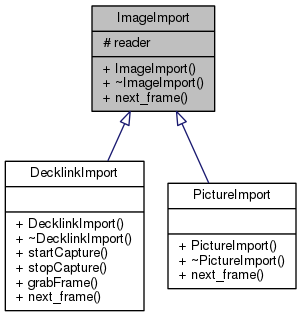
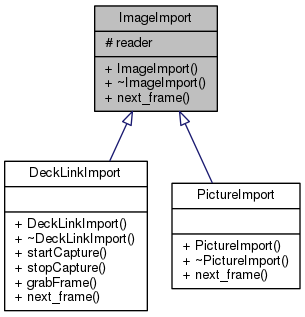
Automated Documentation Generation

diff --git a/html/classDeckLinkImport.html b/html/classDeckLinkImport.html
@@ -4,7 +4,7 @@
 <meta http-equiv="Content-Type" content="text/xhtml;charset=UTF-8"/>
 <meta http-equiv="X-UA-Compatible" content="IE=9"/>
 <meta name="generator" content="Doxygen 1.8.6"/>
-<title>UWARG Computer Vision: DecklinkImport Class Reference</title>
+<title>UWARG Computer Vision: DeckLinkImport Class Reference</title>
 <link href="tabs.css" rel="stylesheet" type="text/css"/>
 <script type="text/javascript" src="jquery.js"></script>
 <script type="text/javascript" src="dynsections.js"></script>
@@ -83,43 +83,43 @@ var searchBox = new SearchBox("searchBox", "search",false,'Search');
 <div class="header">
   <div class="summary">
 <a href="#pub-methods">Public Member Functions</a> &#124;
-<a href="classDecklinkImport-members.html">List of all members</a>  </div>
+<a href="classDeckLinkImport-members.html">List of all members</a>  </div>
   <div class="headertitle">
-<div class="title">DecklinkImport Class Reference</div>  </div>
+<div class="title">DeckLinkImport Class Reference</div>  </div>
 </div><!--header-->
 <div class="contents">
 
-<p>Module for extracting frames from Decklink Video cards.  
- <a href="classDecklinkImport.html#details">More...</a></p>
+<p>Module for extracting frames from DeckLink Video cards.  
+ <a href="classDeckLinkImport.html#details">More...</a></p>
 
 <p><code>#include &lt;<a class="el" href="decklink__import_8h_source.html">decklink_import.h</a>&gt;</code></p>
 <div class="dynheader">
-Inheritance diagram for DecklinkImport:</div>
+Inheritance diagram for DeckLinkImport:</div>
 <div class="dyncontent">
-<div class="center"><img src="classDecklinkImport__inherit__graph.png" border="0" usemap="#DecklinkImport_inherit__map" alt="Inheritance graph"/></div>
-<map name="DecklinkImport_inherit__map" id="DecklinkImport_inherit__map">
-<area shape="rect" id="node2" href="classImageImport.html" title="Abstract class for importing frames and corresponding metadata. " alt="" coords="13,5,136,112"/></map>
+<div class="center"><img src="classDeckLinkImport__inherit__graph.png" border="0" usemap="#DeckLinkImport_inherit__map" alt="Inheritance graph"/></div>
+<map name="DeckLinkImport_inherit__map" id="DeckLinkImport_inherit__map">
+<area shape="rect" id="node2" href="classImageImport.html" title="Abstract class for importing frames and corresponding metadata. " alt="" coords="15,5,137,112"/></map>
 </div>
 <div class="dynheader">
-Collaboration diagram for DecklinkImport:</div>
+Collaboration diagram for DeckLinkImport:</div>
 <div class="dyncontent">
-<div class="center"><img src="classDecklinkImport__coll__graph.png" border="0" usemap="#DecklinkImport_coll__map" alt="Collaboration graph"/></div>
-<map name="DecklinkImport_coll__map" id="DecklinkImport_coll__map">
-<area shape="rect" id="node2" href="classImageImport.html" title="Abstract class for importing frames and corresponding metadata. " alt="" coords="13,221,136,328"/><area shape="rect" id="node3" href="classMetadataInput.html" title="A class for reading telemetry logs and searching for log entries. " alt="" coords="8,6,141,157"/></map>
+<div class="center"><img src="classDeckLinkImport__coll__graph.png" border="0" usemap="#DeckLinkImport_coll__map" alt="Collaboration graph"/></div>
+<map name="DeckLinkImport_coll__map" id="DeckLinkImport_coll__map">
+<area shape="rect" id="node2" href="classImageImport.html" title="Abstract class for importing frames and corresponding metadata. " alt="" coords="15,221,137,328"/><area shape="rect" id="node3" href="classMetadataInput.html" title="A class for reading telemetry logs and searching for log entries. " alt="" coords="9,6,143,157"/></map>
 </div>
 <table class="memberdecls">
 <tr class="heading"><td colspan="2"><h2 class="groupheader"><a name="pub-methods"></a>
 Public Member Functions</h2></td></tr>
-<tr class="memitem:a134278805fce27f766a216ee1caa043d"><td class="memItemLeft" align="right" valign="top">&#160;</td><td class="memItemRight" valign="bottom"><a class="el" href="classDecklinkImport.html#a134278805fce27f766a216ee1caa043d">DecklinkImport</a> (<a class="el" href="classMetadataInput.html">MetadataInput</a> *reader)</td></tr>
-<tr class="separator:a134278805fce27f766a216ee1caa043d"><td class="memSeparator" colspan="2">&#160;</td></tr>
-<tr class="memitem:a9434cbdcb0a0842224ca3cf262756a0e"><td class="memItemLeft" align="right" valign="top">int&#160;</td><td class="memItemRight" valign="bottom"><a class="el" href="classDecklinkImport.html#a9434cbdcb0a0842224ca3cf262756a0e">startCapture</a> ()</td></tr>
-<tr class="separator:a9434cbdcb0a0842224ca3cf262756a0e"><td class="memSeparator" colspan="2">&#160;</td></tr>
-<tr class="memitem:ac3f2de7645984b2328b896555f67fd39"><td class="memItemLeft" align="right" valign="top">int&#160;</td><td class="memItemRight" valign="bottom"><a class="el" href="classDecklinkImport.html#ac3f2de7645984b2328b896555f67fd39">stopCapture</a> ()</td></tr>
-<tr class="separator:ac3f2de7645984b2328b896555f67fd39"><td class="memSeparator" colspan="2">&#160;</td></tr>
-<tr class="memitem:af075ece2124aa9a099f2c5e0ff59b9f2"><td class="memItemLeft" align="right" valign="top">int&#160;</td><td class="memItemRight" valign="bottom"><a class="el" href="classDecklinkImport.html#af075ece2124aa9a099f2c5e0ff59b9f2">grabFrame</a> (cv::Mat *frame)</td></tr>
-<tr class="separator:af075ece2124aa9a099f2c5e0ff59b9f2"><td class="memSeparator" colspan="2">&#160;</td></tr>
-<tr class="memitem:a59935a2b04f7a428404d152405f91081"><td class="memItemLeft" align="right" valign="top">virtual <a class="el" href="classFrame.html">Frame</a> *&#160;</td><td class="memItemRight" valign="bottom"><a class="el" href="classDecklinkImport.html#a59935a2b04f7a428404d152405f91081">next_frame</a> ()</td></tr>
-<tr class="separator:a59935a2b04f7a428404d152405f91081"><td class="memSeparator" colspan="2">&#160;</td></tr>
+<tr class="memitem:ad74e4214f559a5cebf29719aa89e43a2"><td class="memItemLeft" align="right" valign="top">&#160;</td><td class="memItemRight" valign="bottom"><a class="el" href="classDeckLinkImport.html#ad74e4214f559a5cebf29719aa89e43a2">DeckLinkImport</a> (<a class="el" href="classMetadataInput.html">MetadataInput</a> *reader)</td></tr>
+<tr class="separator:ad74e4214f559a5cebf29719aa89e43a2"><td class="memSeparator" colspan="2">&#160;</td></tr>
+<tr class="memitem:ae524c90d6c9ad90fe03c0b28b3eff763"><td class="memItemLeft" align="right" valign="top">int&#160;</td><td class="memItemRight" valign="bottom"><a class="el" href="classDeckLinkImport.html#ae524c90d6c9ad90fe03c0b28b3eff763">startCapture</a> ()</td></tr>
+<tr class="separator:ae524c90d6c9ad90fe03c0b28b3eff763"><td class="memSeparator" colspan="2">&#160;</td></tr>
+<tr class="memitem:a8f10f559e8d247b2893eedd2ff20e3de"><td class="memItemLeft" align="right" valign="top">int&#160;</td><td class="memItemRight" valign="bottom"><a class="el" href="classDeckLinkImport.html#a8f10f559e8d247b2893eedd2ff20e3de">stopCapture</a> ()</td></tr>
+<tr class="separator:a8f10f559e8d247b2893eedd2ff20e3de"><td class="memSeparator" colspan="2">&#160;</td></tr>
+<tr class="memitem:a9bf0aced6fb2d7570ed19bbeed90732d"><td class="memItemLeft" align="right" valign="top">int&#160;</td><td class="memItemRight" valign="bottom"><a class="el" href="classDeckLinkImport.html#a9bf0aced6fb2d7570ed19bbeed90732d">grabFrame</a> (cv::Mat *frame)</td></tr>
+<tr class="separator:a9bf0aced6fb2d7570ed19bbeed90732d"><td class="memSeparator" colspan="2">&#160;</td></tr>
+<tr class="memitem:a614aaa363af837d46346236497c3f324"><td class="memItemLeft" align="right" valign="top">virtual <a class="el" href="classFrame.html">Frame</a> *&#160;</td><td class="memItemRight" valign="bottom"><a class="el" href="classDeckLinkImport.html#a614aaa363af837d46346236497c3f324">next_frame</a> ()</td></tr>
+<tr class="separator:a614aaa363af837d46346236497c3f324"><td class="memSeparator" colspan="2">&#160;</td></tr>
 <tr class="inherit_header pub_methods_classImageImport"><td colspan="2" onclick="javascript:toggleInherit('pub_methods_classImageImport')"><img src="closed.png" alt="-"/>&#160;Public Member Functions inherited from <a class="el" href="classImageImport.html">ImageImport</a></td></tr>
 <tr class="memitem:abf8a3d93464a5451cfe63dfac871c7f5 inherit pub_methods_classImageImport"><td class="memItemLeft" align="right" valign="top">&#160;</td><td class="memItemRight" valign="bottom"><a class="el" href="classImageImport.html#abf8a3d93464a5451cfe63dfac871c7f5">ImageImport</a> (<a class="el" href="classMetadataInput.html">MetadataInput</a> *reader)</td></tr>
 <tr class="memdesc:abf8a3d93464a5451cfe63dfac871c7f5 inherit pub_methods_classImageImport"><td class="mdescLeft">&#160;</td><td class="mdescRight"><ul>
@@ -136,18 +136,18 @@ Additional Inherited Members</h2></td></tr>
 <tr class="separator:a86f5c4d28a8ea126e066542c3d723d11 inherit pro_attribs_classImageImport"><td class="memSeparator" colspan="2">&#160;</td></tr>
 </table>
 <a name="details" id="details"></a><h2 class="groupheader">Detailed Description</h2>
-<div class="textblock"><p>Module for extracting frames from Decklink Video cards. </p>
+<div class="textblock"><p>Module for extracting frames from DeckLink Video cards. </p>
 <p>Reads Video frames and processes them into a OpenCV friendly format. The results are later used in the <a class="el" href="classImageImport.html" title="Abstract class for importing frames and corresponding metadata. ">ImageImport</a> class.</p>
 <h1><a class="anchor" id="Notes"></a>
 Notes</h1>
 <p>This should provide nothing more or less than the ability to control video devices, including but not limited by input source selection, initialization, format settings, and frame grab selection. </p>
 </div><h2 class="groupheader">Constructor &amp; Destructor Documentation</h2>
-<a class="anchor" id="a134278805fce27f766a216ee1caa043d"></a>
+<a class="anchor" id="ad74e4214f559a5cebf29719aa89e43a2"></a>
 <div class="memitem">
 <div class="memproto">
       <table class="memname">
         <tr>
-          <td class="memname">DecklinkImport::DecklinkImport </td>
+          <td class="memname">DeckLinkImport::DeckLinkImport </td>
           <td>(</td>
           <td class="paramtype"><a class="el" href="classMetadataInput.html">MetadataInput</a> *&#160;</td>
           <td class="paramname"><em>reader</em></td><td>)</td>
@@ -155,17 +155,17 @@ Notes</h1>
         </tr>
       </table>
 </div><div class="memdoc">
-<p>Creates a <a class="el" href="classDecklinkImport.html" title="Module for extracting frames from Decklink Video cards. ">DecklinkImport</a> object </p>
+<p>Creates a <a class="el" href="classDeckLinkImport.html" title="Module for extracting frames from DeckLink Video cards. ">DeckLinkImport</a> object </p>
 
 </div>
 </div>
 <h2 class="groupheader">Member Function Documentation</h2>
-<a class="anchor" id="af075ece2124aa9a099f2c5e0ff59b9f2"></a>
+<a class="anchor" id="a9bf0aced6fb2d7570ed19bbeed90732d"></a>
 <div class="memitem">
 <div class="memproto">
       <table class="memname">
         <tr>
-          <td class="memname">int DecklinkImport::grabFrame </td>
+          <td class="memname">int DeckLinkImport::grabFrame </td>
           <td>(</td>
           <td class="paramtype">cv::Mat *&#160;</td>
           <td class="paramname"><em>frame</em></td><td>)</td>
@@ -184,7 +184,7 @@ Notes</h1>
 
 </div>
 </div>
-<a class="anchor" id="a59935a2b04f7a428404d152405f91081"></a>
+<a class="anchor" id="a614aaa363af837d46346236497c3f324"></a>
 <div class="memitem">
 <div class="memproto">
 <table class="mlabels">
@@ -192,7 +192,7 @@ Notes</h1>
   <td class="mlabels-left">
       <table class="memname">
         <tr>
-          <td class="memname">virtual <a class="el" href="classFrame.html">Frame</a>* DecklinkImport::next_frame </td>
+          <td class="memname">virtual <a class="el" href="classFrame.html">Frame</a>* DeckLinkImport::next_frame </td>
           <td>(</td>
           <td class="paramname"></td><td>)</td>
           <td></td>
@@ -211,12 +211,12 @@ Notes</h1>
 
 </div>
 </div>
-<a class="anchor" id="a9434cbdcb0a0842224ca3cf262756a0e"></a>
+<a class="anchor" id="ae524c90d6c9ad90fe03c0b28b3eff763"></a>
 <div class="memitem">
 <div class="memproto">
       <table class="memname">
         <tr>
-          <td class="memname">int DecklinkImport::startCapture </td>
+          <td class="memname">int DeckLinkImport::startCapture </td>
           <td>(</td>
           <td class="paramname"></td><td>)</td>
           <td></td>
@@ -228,12 +228,12 @@ Notes</h1>
 
 </div>
 </div>
-<a class="anchor" id="ac3f2de7645984b2328b896555f67fd39"></a>
+<a class="anchor" id="a8f10f559e8d247b2893eedd2ff20e3de"></a>
 <div class="memitem">
 <div class="memproto">
       <table class="memname">
         <tr>
-          <td class="memname">int DecklinkImport::stopCapture </td>
+          <td class="memname">int DeckLinkImport::stopCapture </td>
           <td>(</td>
           <td class="paramname"></td><td>)</td>
           <td></td>

diff --git a/html/decklink__import_8h_source.html b/html/decklink__import_8h_source.html
@@ -128,35 +128,35 @@ var searchBox = new SearchBox("searchBox", "search",false,'Search');
 <div class="line"><a name="l00039"></a><span class="lineno">   39</span>&#160;<span class="preprocessor">#include &lt;vector&gt;</span></div>
 <div class="line"><a name="l00040"></a><span class="lineno">   40</span>&#160;<span class="preprocessor">#include &quot;<a class="code" href="imgimport_8h.html">imgimport.h</a>&quot;</span></div>
 <div class="line"><a name="l00041"></a><span class="lineno">   41</span>&#160;</div>
-<div class="line"><a name="l00059"></a><span class="lineno"><a class="line" href="classDecklinkImport.html">   59</a></span>&#160;<span class="keyword">class </span><a class="code" href="classDecklinkImport.html">DecklinkImport</a> : <span class="keyword">public</span> <a class="code" href="classImageImport.html">ImageImport</a> {</div>
+<div class="line"><a name="l00059"></a><span class="lineno"><a class="line" href="classDeckLinkImport.html">   59</a></span>&#160;<span class="keyword">class </span><a class="code" href="classDeckLinkImport.html">DeckLinkImport</a> : <span class="keyword">public</span> <a class="code" href="classImageImport.html">ImageImport</a> {</div>
 <div class="line"><a name="l00060"></a><span class="lineno">   60</span>&#160;    <span class="keyword">public</span>:</div>
-<div class="line"><a name="l00064"></a><span class="lineno">   64</span>&#160;        <a class="code" href="classDecklinkImport.html#a134278805fce27f766a216ee1caa043d">DecklinkImport</a>(<a class="code" href="classMetadataInput.html">MetadataInput</a> * reader);</div>
+<div class="line"><a name="l00064"></a><span class="lineno">   64</span>&#160;        <a class="code" href="classDeckLinkImport.html#ad74e4214f559a5cebf29719aa89e43a2">DeckLinkImport</a>(<a class="code" href="classMetadataInput.html">MetadataInput</a> * reader);</div>
 <div class="line"><a name="l00065"></a><span class="lineno">   65</span>&#160;</div>
-<div class="line"><a name="l00066"></a><span class="lineno">   66</span>&#160;        <span class="keyword">virtual</span> ~<a class="code" href="classDecklinkImport.html">DecklinkImport</a>();</div>
+<div class="line"><a name="l00066"></a><span class="lineno">   66</span>&#160;        <span class="keyword">virtual</span> ~<a class="code" href="classDeckLinkImport.html">DeckLinkImport</a>();</div>
 <div class="line"><a name="l00067"></a><span class="lineno">   67</span>&#160;</div>
-<div class="line"><a name="l00072"></a><span class="lineno">   72</span>&#160;        <span class="keywordtype">int</span> <a class="code" href="classDecklinkImport.html#a9434cbdcb0a0842224ca3cf262756a0e">startCapture</a>();</div>
+<div class="line"><a name="l00072"></a><span class="lineno">   72</span>&#160;        <span class="keywordtype">int</span> <a class="code" href="classDeckLinkImport.html#ae524c90d6c9ad90fe03c0b28b3eff763">startCapture</a>();</div>
 <div class="line"><a name="l00073"></a><span class="lineno">   73</span>&#160;</div>
-<div class="line"><a name="l00079"></a><span class="lineno">   79</span>&#160;    <span class="keywordtype">int</span> <a class="code" href="classDecklinkImport.html#ac3f2de7645984b2328b896555f67fd39">stopCapture</a>();</div>
+<div class="line"><a name="l00079"></a><span class="lineno">   79</span>&#160;    <span class="keywordtype">int</span> <a class="code" href="classDeckLinkImport.html#a8f10f559e8d247b2893eedd2ff20e3de">stopCapture</a>();</div>
 <div class="line"><a name="l00080"></a><span class="lineno">   80</span>&#160;</div>
-<div class="line"><a name="l00088"></a><span class="lineno">   88</span>&#160;        <span class="keywordtype">int</span> <a class="code" href="classDecklinkImport.html#af075ece2124aa9a099f2c5e0ff59b9f2">grabFrame</a>(cv::Mat* frame);</div>
+<div class="line"><a name="l00088"></a><span class="lineno">   88</span>&#160;        <span class="keywordtype">int</span> <a class="code" href="classDeckLinkImport.html#a9bf0aced6fb2d7570ed19bbeed90732d">grabFrame</a>(cv::Mat* frame);</div>
 <div class="line"><a name="l00089"></a><span class="lineno">   89</span>&#160;        </div>
-<div class="line"><a name="l00095"></a><span class="lineno">   95</span>&#160;        <span class="keyword">virtual</span> <a class="code" href="classFrame.html">Frame</a>* <a class="code" href="classDecklinkImport.html#a59935a2b04f7a428404d152405f91081">next_frame</a>();</div>
+<div class="line"><a name="l00095"></a><span class="lineno">   95</span>&#160;        <span class="keyword">virtual</span> <a class="code" href="classFrame.html">Frame</a>* <a class="code" href="classDeckLinkImport.html#a614aaa363af837d46346236497c3f324">next_frame</a>();</div>
 <div class="line"><a name="l00096"></a><span class="lineno">   96</span>&#160;    <span class="keyword">private</span>:</div>
 <div class="line"><a name="l00103"></a><span class="lineno">  103</span>&#160;        <span class="keywordtype">int</span> initVideoSource();</div>
 <div class="line"><a name="l00104"></a><span class="lineno">  104</span>&#160;};</div>
 <div class="line"><a name="l00105"></a><span class="lineno">  105</span>&#160;</div>
 <div class="line"><a name="l00106"></a><span class="lineno">  106</span>&#160;<span class="preprocessor">#endif // DECKLINK_IMPORT_H_INCLUDED</span></div>
-<div class="ttc" id="classDecklinkImport_html_a9434cbdcb0a0842224ca3cf262756a0e"><div class="ttname"><a href="classDecklinkImport.html#a9434cbdcb0a0842224ca3cf262756a0e">DecklinkImport::startCapture</a></div><div class="ttdeci">int startCapture()</div></div>
+<div class="ttc" id="classDeckLinkImport_html_a8f10f559e8d247b2893eedd2ff20e3de"><div class="ttname"><a href="classDeckLinkImport.html#a8f10f559e8d247b2893eedd2ff20e3de">DeckLinkImport::stopCapture</a></div><div class="ttdeci">int stopCapture()</div></div>
 <div class="ttc" id="classImageImport_html"><div class="ttname"><a href="classImageImport.html">ImageImport</a></div><div class="ttdoc">Abstract class for importing frames and corresponding metadata. </div><div class="ttdef"><b>Definition:</b> imgimport.h:29</div></div>
-<div class="ttc" id="classDecklinkImport_html_a59935a2b04f7a428404d152405f91081"><div class="ttname"><a href="classDecklinkImport.html#a59935a2b04f7a428404d152405f91081">DecklinkImport::next_frame</a></div><div class="ttdeci">virtual Frame * next_frame()</div></div>
+<div class="ttc" id="classDeckLinkImport_html"><div class="ttname"><a href="classDeckLinkImport.html">DeckLinkImport</a></div><div class="ttdoc">Module for extracting frames from DeckLink Video cards. </div><div class="ttdef"><b>Definition:</b> decklink_import.h:59</div></div>
 <div class="ttc" id="classMetadataInput_html"><div class="ttname"><a href="classMetadataInput.html">MetadataInput</a></div><div class="ttdoc">A class for reading telemetry logs and searching for log entries. </div><div class="ttdef"><b>Definition:</b> metadata_input.h:29</div></div>
+<div class="ttc" id="classDeckLinkImport_html_a614aaa363af837d46346236497c3f324"><div class="ttname"><a href="classDeckLinkImport.html#a614aaa363af837d46346236497c3f324">DeckLinkImport::next_frame</a></div><div class="ttdeci">virtual Frame * next_frame()</div></div>
+<div class="ttc" id="classDeckLinkImport_html_ad74e4214f559a5cebf29719aa89e43a2"><div class="ttname"><a href="classDeckLinkImport.html#ad74e4214f559a5cebf29719aa89e43a2">DeckLinkImport::DeckLinkImport</a></div><div class="ttdeci">DeckLinkImport(MetadataInput *reader)</div></div>
+<div class="ttc" id="classDeckLinkImport_html_a9bf0aced6fb2d7570ed19bbeed90732d"><div class="ttname"><a href="classDeckLinkImport.html#a9bf0aced6fb2d7570ed19bbeed90732d">DeckLinkImport::grabFrame</a></div><div class="ttdeci">int grabFrame(cv::Mat *frame)</div></div>
 <div class="ttc" id="frame_8h_html"><div class="ttname"><a href="frame_8h.html">frame.h</a></div><div class="ttdoc">Container class for storing photos or frames of video to be processed and analyzed. </div></div>
-<div class="ttc" id="classDecklinkImport_html_a134278805fce27f766a216ee1caa043d"><div class="ttname"><a href="classDecklinkImport.html#a134278805fce27f766a216ee1caa043d">DecklinkImport::DecklinkImport</a></div><div class="ttdeci">DecklinkImport(MetadataInput *reader)</div></div>
-<div class="ttc" id="classDecklinkImport_html_ac3f2de7645984b2328b896555f67fd39"><div class="ttname"><a href="classDecklinkImport.html#ac3f2de7645984b2328b896555f67fd39">DecklinkImport::stopCapture</a></div><div class="ttdeci">int stopCapture()</div></div>
 <div class="ttc" id="classFrame_html"><div class="ttname"><a href="classFrame.html">Frame</a></div><div class="ttdef"><b>Definition:</b> frame.h:48</div></div>
 <div class="ttc" id="imgimport_8h_html"><div class="ttname"><a href="imgimport_8h.html">imgimport.h</a></div></div>
-<div class="ttc" id="classDecklinkImport_html_af075ece2124aa9a099f2c5e0ff59b9f2"><div class="ttname"><a href="classDecklinkImport.html#af075ece2124aa9a099f2c5e0ff59b9f2">DecklinkImport::grabFrame</a></div><div class="ttdeci">int grabFrame(cv::Mat *frame)</div></div>
-<div class="ttc" id="classDecklinkImport_html"><div class="ttname"><a href="classDecklinkImport.html">DecklinkImport</a></div><div class="ttdoc">Module for extracting frames from Decklink Video cards. </div><div class="ttdef"><b>Definition:</b> decklink_import.h:59</div></div>
+<div class="ttc" id="classDeckLinkImport_html_ae524c90d6c9ad90fe03c0b28b3eff763"><div class="ttname"><a href="classDeckLinkImport.html#ae524c90d6c9ad90fe03c0b28b3eff763">DeckLinkImport::startCapture</a></div><div class="ttdeci">int startCapture()</div></div>
 </div><!-- fragment --></div><!-- contents -->
 <!-- start footer part -->
 <hr class="footer"/><address class="footer"><small>

diff --git a/html/classDeckLinkImport-members.html b/html/classDeckLinkImport-members.html
@@ -82,20 +82,20 @@ var searchBox = new SearchBox("searchBox", "search",false,'Search');
 </div><!-- top -->
 <div class="header">
   <div class="headertitle">
-<div class="title">DecklinkImport Member List</div>  </div>
+<div class="title">DeckLinkImport Member List</div>  </div>
 </div><!--header-->
 <div class="contents">
 
-<p>This is the complete list of members for <a class="el" href="classDecklinkImport.html">DecklinkImport</a>, including all inherited members.</p>
+<p>This is the complete list of members for <a class="el" href="classDeckLinkImport.html">DeckLinkImport</a>, including all inherited members.</p>
 <table class="directory">
-  <tr class="even"><td class="entry"><a class="el" href="classDecklinkImport.html#a134278805fce27f766a216ee1caa043d">DecklinkImport</a>(MetadataInput *reader)</td><td class="entry"><a class="el" href="classDecklinkImport.html">DecklinkImport</a></td><td class="entry"></td></tr>
-  <tr><td class="entry"><a class="el" href="classDecklinkImport.html#af075ece2124aa9a099f2c5e0ff59b9f2">grabFrame</a>(cv::Mat *frame)</td><td class="entry"><a class="el" href="classDecklinkImport.html">DecklinkImport</a></td><td class="entry"></td></tr>
+  <tr class="even"><td class="entry"><a class="el" href="classDeckLinkImport.html#ad74e4214f559a5cebf29719aa89e43a2">DeckLinkImport</a>(MetadataInput *reader)</td><td class="entry"><a class="el" href="classDeckLinkImport.html">DeckLinkImport</a></td><td class="entry"></td></tr>
+  <tr><td class="entry"><a class="el" href="classDeckLinkImport.html#a9bf0aced6fb2d7570ed19bbeed90732d">grabFrame</a>(cv::Mat *frame)</td><td class="entry"><a class="el" href="classDeckLinkImport.html">DeckLinkImport</a></td><td class="entry"></td></tr>
   <tr class="even"><td class="entry"><a class="el" href="classImageImport.html#abf8a3d93464a5451cfe63dfac871c7f5">ImageImport</a>(MetadataInput *reader)</td><td class="entry"><a class="el" href="classImageImport.html">ImageImport</a></td><td class="entry"></td></tr>
-  <tr><td class="entry"><a class="el" href="classDecklinkImport.html#a59935a2b04f7a428404d152405f91081">next_frame</a>()</td><td class="entry"><a class="el" href="classDecklinkImport.html">DecklinkImport</a></td><td class="entry"><span class="mlabel">virtual</span></td></tr>
+  <tr><td class="entry"><a class="el" href="classDeckLinkImport.html#a614aaa363af837d46346236497c3f324">next_frame</a>()</td><td class="entry"><a class="el" href="classDeckLinkImport.html">DeckLinkImport</a></td><td class="entry"><span class="mlabel">virtual</span></td></tr>
   <tr bgcolor="#f0f0f0" class="even"><td class="entry"><b>reader</b> (defined in <a class="el" href="classImageImport.html">ImageImport</a>)</td><td class="entry"><a class="el" href="classImageImport.html">ImageImport</a></td><td class="entry"><span class="mlabel">protected</span></td></tr>
-  <tr><td class="entry"><a class="el" href="classDecklinkImport.html#a9434cbdcb0a0842224ca3cf262756a0e">startCapture</a>()</td><td class="entry"><a class="el" href="classDecklinkImport.html">DecklinkImport</a></td><td class="entry"></td></tr>
-  <tr class="even"><td class="entry"><a class="el" href="classDecklinkImport.html#ac3f2de7645984b2328b896555f67fd39">stopCapture</a>()</td><td class="entry"><a class="el" href="classDecklinkImport.html">DecklinkImport</a></td><td class="entry"></td></tr>
-  <tr bgcolor="#f0f0f0"><td class="entry"><b>~DecklinkImport</b>() (defined in <a class="el" href="classDecklinkImport.html">DecklinkImport</a>)</td><td class="entry"><a class="el" href="classDecklinkImport.html">DecklinkImport</a></td><td class="entry"><span class="mlabel">virtual</span></td></tr>
+  <tr><td class="entry"><a class="el" href="classDeckLinkImport.html#ae524c90d6c9ad90fe03c0b28b3eff763">startCapture</a>()</td><td class="entry"><a class="el" href="classDeckLinkImport.html">DeckLinkImport</a></td><td class="entry"></td></tr>
+  <tr class="even"><td class="entry"><a class="el" href="classDeckLinkImport.html#a8f10f559e8d247b2893eedd2ff20e3de">stopCapture</a>()</td><td class="entry"><a class="el" href="classDeckLinkImport.html">DeckLinkImport</a></td><td class="entry"></td></tr>
+  <tr bgcolor="#f0f0f0"><td class="entry"><b>~DeckLinkImport</b>() (defined in <a class="el" href="classDeckLinkImport.html">DeckLinkImport</a>)</td><td class="entry"><a class="el" href="classDeckLinkImport.html">DeckLinkImport</a></td><td class="entry"><span class="mlabel">virtual</span></td></tr>
   <tr bgcolor="#f0f0f0" class="even"><td class="entry"><b>~ImageImport</b>() (defined in <a class="el" href="classImageImport.html">ImageImport</a>)</td><td class="entry"><a class="el" href="classImageImport.html">ImageImport</a></td><td class="entry"><span class="mlabel">virtual</span></td></tr>
 </table></div><!-- contents -->
 <!-- start footer part -->

diff --git a/html/hierarchy.html b/html/hierarchy.html
@@ -101,7 +101,7 @@ This inheritance list is sorted roughly, but not completely, alphabetically:</di
 <tr id="row_6_"><td class="entry"><img id="arr_6_" src="ftv2mnode.png" alt="o" width="16" height="22" onclick="toggleFolder('6_')"/><img src="ftv2cl.png" alt="C" width="24" height="22" /><b>IDeckLinkVideoFrame</b></td><td class="desc"></td></tr>
 <tr id="row_6_0_" class="even"><td class="entry"><img src="ftv2vertline.png" alt="|" width="16" height="22" /><img src="ftv2lastnode.png" alt="\" width="16" height="22" /><img src="ftv2cl.png" alt="C" width="24" height="22" /><a class="el" href="classCvMatDeckLinkVideoFrame.html" target="_self">CvMatDeckLinkVideoFrame</a></td><td class="desc"></td></tr>
 <tr id="row_7_"><td class="entry"><img id="arr_7_" src="ftv2mnode.png" alt="o" width="16" height="22" onclick="toggleFolder('7_')"/><img src="ftv2cl.png" alt="C" width="24" height="22" /><a class="el" href="classImageImport.html" target="_self">ImageImport</a></td><td class="desc">Abstract class for importing frames and corresponding metadata </td></tr>
-<tr id="row_7_0_" class="even"><td class="entry"><img src="ftv2vertline.png" alt="|" width="16" height="22" /><img src="ftv2node.png" alt="o" width="16" height="22" /><img src="ftv2cl.png" alt="C" width="24" height="22" /><a class="el" href="classDecklinkImport.html" target="_self">DecklinkImport</a></td><td class="desc">Module for extracting frames from Decklink Video cards </td></tr>
+<tr id="row_7_0_" class="even"><td class="entry"><img src="ftv2vertline.png" alt="|" width="16" height="22" /><img src="ftv2node.png" alt="o" width="16" height="22" /><img src="ftv2cl.png" alt="C" width="24" height="22" /><a class="el" href="classDeckLinkImport.html" target="_self">DeckLinkImport</a></td><td class="desc">Module for extracting frames from DeckLink Video cards </td></tr>
 <tr id="row_7_1_"><td class="entry"><img src="ftv2vertline.png" alt="|" width="16" height="22" /><img src="ftv2lastnode.png" alt="\" width="16" height="22" /><img src="ftv2cl.png" alt="C" width="24" height="22" /><a class="el" href="classPictureImport.html" target="_self">PictureImport</a></td><td class="desc">Class for reading image files from a directory </td></tr>
 <tr id="row_8_" class="even"><td class="entry"><img id="arr_8_" src="ftv2mnode.png" alt="o" width="16" height="22" onclick="toggleFolder('8_')"/><img src="ftv2cl.png" alt="C" width="24" height="22" /><b>intrusive_ptr</b></td><td class="desc"></td></tr>
 <tr id="row_8_0_"><td class="entry"><img src="ftv2vertline.png" alt="|" width="16" height="22" /><img src="ftv2node.png" alt="o" width="16" height="22" /><img src="ftv2cl.png" alt="C" width="24" height="22" /><a class="el" href="classComPtr.html" target="_self">ComPtr&lt; T &gt;</a></td><td class="desc"></td></tr>

diff --git a/html/annotated.html b/html/annotated.html
@@ -92,7 +92,7 @@ var searchBox = new SearchBox("searchBox", "search",false,'Search');
 <tr id="row_2_" class="even"><td class="entry"><img src="ftv2node.png" alt="o" width="16" height="22" /><img src="ftv2cl.png" alt="C" width="24" height="22" /><a class="el" href="classContourCreator.html" target="_self">ContourCreator</a></td><td class="desc"></td></tr>
 <tr id="row_3_"><td class="entry"><img src="ftv2node.png" alt="o" width="16" height="22" /><img src="ftv2cl.png" alt="C" width="24" height="22" /><a class="el" href="classCvMatDeckLinkVideoFrame.html" target="_self">CvMatDeckLinkVideoFrame</a></td><td class="desc"></td></tr>
 <tr id="row_4_" class="even"><td class="entry"><img src="ftv2node.png" alt="o" width="16" height="22" /><img src="ftv2cl.png" alt="C" width="24" height="22" /><a class="el" href="classDeckLinkCapture.html" target="_self">DeckLinkCapture</a></td><td class="desc"></td></tr>
-<tr id="row_5_"><td class="entry"><img src="ftv2node.png" alt="o" width="16" height="22" /><img src="ftv2cl.png" alt="C" width="24" height="22" /><a class="el" href="classDecklinkImport.html" target="_self">DecklinkImport</a></td><td class="desc">Module for extracting frames from Decklink Video cards </td></tr>
+<tr id="row_5_"><td class="entry"><img src="ftv2node.png" alt="o" width="16" height="22" /><img src="ftv2cl.png" alt="C" width="24" height="22" /><a class="el" href="classDeckLinkImport.html" target="_self">DeckLinkImport</a></td><td class="desc">Module for extracting frames from DeckLink Video cards </td></tr>
 <tr id="row_6_" class="even"><td class="entry"><img src="ftv2node.png" alt="o" width="16" height="22" /><img src="ftv2cl.png" alt="C" width="24" height="22" /><a class="el" href="classDeckLinkInputCallback.html" target="_self">DeckLinkInputCallback</a></td><td class="desc"></td></tr>
 <tr id="row_7_"><td class="entry"><img src="ftv2node.png" alt="o" width="16" height="22" /><img src="ftv2cl.png" alt="C" width="24" height="22" /><a class="el" href="classFilter.html" target="_self">Filter</a></td><td class="desc">Abstract class providing an interface to modify images before edge detection is applied </td></tr>
 <tr id="row_8_" class="even"><td class="entry"><img src="ftv2node.png" alt="o" width="16" height="22" /><img src="ftv2cl.png" alt="C" width="24" height="22" /><a class="el" href="classFrame.html" target="_self">Frame</a></td><td class="desc"></td></tr>

diff --git a/html/functions.html b/html/functions.html
@@ -129,8 +129,8 @@ var searchBox = new SearchBox("searchBox", "search",false,'Search');
 
 
 <h3><a class="anchor" id="index_d"></a>- d -</h3><ul>
-<li>DecklinkImport()
-: <a class="el" href="classDecklinkImport.html#a134278805fce27f766a216ee1caa043d">DecklinkImport</a>
+<li>DeckLinkImport()
+: <a class="el" href="classDeckLinkImport.html#ad74e4214f559a5cebf29719aa89e43a2">DeckLinkImport</a>
 </li>
 </ul>
 
@@ -221,7 +221,7 @@ var searchBox = new SearchBox("searchBox", "search",false,'Search');
 : <a class="el" href="classTargetLoader.html#ac6393e6cdddb6d0a40b185a09a99bc33">TargetLoader</a>
 </li>
 <li>grabFrame()
-: <a class="el" href="classDecklinkImport.html#af075ece2124aa9a099f2c5e0ff59b9f2">DecklinkImport</a>
+: <a class="el" href="classDeckLinkImport.html#a9bf0aced6fb2d7570ed19bbeed90732d">DeckLinkImport</a>
 </li>
 </ul>
 
@@ -268,7 +268,7 @@ var searchBox = new SearchBox("searchBox", "search",false,'Search');
 
 <h3><a class="anchor" id="index_n"></a>- n -</h3><ul>
 <li>next_frame()
-: <a class="el" href="classDecklinkImport.html#a59935a2b04f7a428404d152405f91081">DecklinkImport</a>
+: <a class="el" href="classDeckLinkImport.html#a614aaa363af837d46346236497c3f324">DeckLinkImport</a>
 , <a class="el" href="classImageImport.html#acbf182e5ff9baf205a0e1aceadab654d">ImageImport</a>
 , <a class="el" href="classPictureImport.html#a540c467a453d7488c078278bcac05699">PictureImport</a>
 </li>
@@ -315,10 +315,10 @@ var searchBox = new SearchBox("searchBox", "search",false,'Search');
 : <a class="el" href="classFilter.html#a9522b924de32bc778827bcf59bb0bd73">Filter</a>
 </li>
 <li>startCapture()
-: <a class="el" href="classDecklinkImport.html#a9434cbdcb0a0842224ca3cf262756a0e">DecklinkImport</a>
+: <a class="el" href="classDeckLinkImport.html#ae524c90d6c9ad90fe03c0b28b3eff763">DeckLinkImport</a>
 </li>
 <li>stopCapture()
-: <a class="el" href="classDecklinkImport.html#ac3f2de7645984b2328b896555f67fd39">DecklinkImport</a>
+: <a class="el" href="classDeckLinkImport.html#a8f10f559e8d247b2893eedd2ff20e3de">DeckLinkImport</a>
 </li>
 </ul>
 

diff --git a/html/functions_func.html b/html/functions_func.html
@@ -119,8 +119,8 @@ var searchBox = new SearchBox("searchBox", "search",false,'Search');
 
 
 <h3><a class="anchor" id="index_d"></a>- d -</h3><ul>
-<li>DecklinkImport()
-: <a class="el" href="classDecklinkImport.html#a134278805fce27f766a216ee1caa043d">DecklinkImport</a>
+<li>DeckLinkImport()
+: <a class="el" href="classDeckLinkImport.html#ad74e4214f559a5cebf29719aa89e43a2">DeckLinkImport</a>
 </li>
 </ul>
 
@@ -208,7 +208,7 @@ var searchBox = new SearchBox("searchBox", "search",false,'Search');
 : <a class="el" href="classTargetLoader.html#ac6393e6cdddb6d0a40b185a09a99bc33">TargetLoader</a>
 </li>
 <li>grabFrame()
-: <a class="el" href="classDecklinkImport.html#af075ece2124aa9a099f2c5e0ff59b9f2">DecklinkImport</a>
+: <a class="el" href="classDeckLinkImport.html#a9bf0aced6fb2d7570ed19bbeed90732d">DeckLinkImport</a>
 </li>
 </ul>
 
@@ -229,7 +229,7 @@ var searchBox = new SearchBox("searchBox", "search",false,'Search');
 
 <h3><a class="anchor" id="index_n"></a>- n -</h3><ul>
 <li>next_frame()
-: <a class="el" href="classDecklinkImport.html#a59935a2b04f7a428404d152405f91081">DecklinkImport</a>
+: <a class="el" href="classDeckLinkImport.html#a614aaa363af837d46346236497c3f324">DeckLinkImport</a>
 , <a class="el" href="classImageImport.html#acbf182e5ff9baf205a0e1aceadab654d">ImageImport</a>
 , <a class="el" href="classPictureImport.html#a540c467a453d7488c078278bcac05699">PictureImport</a>
 </li>
@@ -260,10 +260,10 @@ var searchBox = new SearchBox("searchBox", "search",false,'Search');
 : <a class="el" href="classFilter.html#a9522b924de32bc778827bcf59bb0bd73">Filter</a>
 </li>
 <li>startCapture()
-: <a class="el" href="classDecklinkImport.html#a9434cbdcb0a0842224ca3cf262756a0e">DecklinkImport</a>
+: <a class="el" href="classDeckLinkImport.html#ae524c90d6c9ad90fe03c0b28b3eff763">DeckLinkImport</a>
 </li>
 <li>stopCapture()
-: <a class="el" href="classDecklinkImport.html#ac3f2de7645984b2328b896555f67fd39">DecklinkImport</a>
+: <a class="el" href="classDeckLinkImport.html#a8f10f559e8d247b2893eedd2ff20e3de">DeckLinkImport</a>
 </li>
 </ul>
 

diff --git a/html/classImageImport.html b/html/classImageImport.html
@@ -99,7 +99,7 @@ Inheritance diagram for ImageImport:</div>
 <div class="dyncontent">
 <div class="center"><img src="classImageImport__inherit__graph.png" border="0" usemap="#ImageImport_inherit__map" alt="Inheritance graph"/></div>
 <map name="ImageImport_inherit__map" id="ImageImport_inherit__map">
-<area shape="rect" id="node2" href="classDecklinkImport.html" title="Module for extracting frames from Decklink Video cards. " alt="" coords="5,161,144,311"/><area shape="rect" id="node3" href="classPictureImport.html" title="Class for reading image files from a directory. " alt="" coords="168,183,296,289"/></map>
+<area shape="rect" id="node2" href="classDeckLinkImport.html" title="Module for extracting frames from DeckLink Video cards. " alt="" coords="5,161,147,311"/><area shape="rect" id="node3" href="classPictureImport.html" title="Class for reading image files from a directory. " alt="" coords="172,183,300,289"/></map>
 </div>
 <div class="dynheader">
 Collaboration diagram for ImageImport:</div>
@@ -182,7 +182,7 @@ Protected Attributes</h2></td></tr>
 <p>Retrieves the next frame to be analyzed. </p>
 <dl class="section return"><dt>Returns</dt><dd><a class="el" href="classFrame.html">Frame</a> to be analyzed </dd></dl>
 
-<p>Implemented in <a class="el" href="classDecklinkImport.html#a59935a2b04f7a428404d152405f91081">DecklinkImport</a>, and <a class="el" href="classPictureImport.html#a540c467a453d7488c078278bcac05699">PictureImport</a>.</p>
+<p>Implemented in <a class="el" href="classDeckLinkImport.html#a614aaa363af837d46346236497c3f324">DeckLinkImport</a>, and <a class="el" href="classPictureImport.html#a540c467a453d7488c078278bcac05699">PictureImport</a>.</p>
 
 </div>
 </div>

diff --git a/html/classes.html b/html/classes.html
@@ -108,7 +108,7 @@ var searchBox = new SearchBox("searchBox", "search",false,'Search');
 </td><td valign="top"><a class="el" href="classTarget.html">Target</a>&#160;&#160;&#160;</td><td></td></tr>
 <tr><td valign="top"><a class="el" href="classDeckLinkCapture.html">DeckLinkCapture</a>&#160;&#160;&#160;</td><td rowspan="2" valign="bottom"><a name="letter_I"></a><table border="0" cellspacing="0" cellpadding="0"><tr><td><div class="ah">&#160;&#160;I&#160;&#160;</div></td></tr></table>
 </td><td valign="top"><a class="el" href="classTargetAnalyzer.html">TargetAnalyzer</a>&#160;&#160;&#160;</td><td></td></tr>
-<tr><td valign="top"><a class="el" href="classDecklinkImport.html">DecklinkImport</a>&#160;&#160;&#160;</td><td valign="top"><a class="el" href="classObject.html">Object</a>&#160;&#160;&#160;</td><td valign="top"><a class="el" href="classTargetIdentifier.html">TargetIdentifier</a>&#160;&#160;&#160;</td><td></td></tr>
+<tr><td valign="top"><a class="el" href="classDeckLinkImport.html">DeckLinkImport</a>&#160;&#160;&#160;</td><td valign="top"><a class="el" href="classObject.html">Object</a>&#160;&#160;&#160;</td><td valign="top"><a class="el" href="classTargetIdentifier.html">TargetIdentifier</a>&#160;&#160;&#160;</td><td></td></tr>
 <tr><td></td><td valign="top"><a class="el" href="classImageImport.html">ImageImport</a>&#160;&#160;&#160;</td><td></td><td></td><td></td></tr>
 <tr><td></td><td></td><td></td><td></td><td></td></tr>
 </table>

diff --git a/html/inherits.html b/html/inherits.html
@@ -122,7 +122,7 @@ var searchBox = new SearchBox("searchBox", "search",false,'Search');
 </td></tr>
 <tr><td><img src="inherit_graph_8.png" border="0" alt="" usemap="#ImageImport"/>
 <map name="ImageImport" id="ImageImport">
-<area shape="rect" id="node1" href="classImageImport.html" title="Abstract class for importing frames and corresponding metadata. " alt="" coords="6,31,101,57"/><area shape="rect" id="node2" href="classDecklinkImport.html" title="Module for extracting frames from Decklink Video cards. " alt="" coords="150,5,261,32"/><area shape="rect" id="node3" href="classPictureImport.html" title="Class for reading image files from a directory. " alt="" coords="155,56,255,83"/></map>
+<area shape="rect" id="node1" href="classImageImport.html" title="Abstract class for importing frames and corresponding metadata. " alt="" coords="6,31,101,57"/><area shape="rect" id="node2" href="classDeckLinkImport.html" title="Module for extracting frames from DeckLink Video cards. " alt="" coords="149,5,264,32"/><area shape="rect" id="node3" href="classPictureImport.html" title="Class for reading image files from a directory. " alt="" coords="157,56,257,83"/></map>
 </td></tr>
 <tr><td><img src="inherit_graph_9.png" border="0" alt="" usemap="#Metadata"/>
 <map name="Metadata" id="Metadata">

diff --git a/html/search/all_b.js b/html/search/all_b.js
@@ -1,5 +1,5 @@
 var searchData=
 [
-  ['next_5fframe',['next_frame',['../classDecklinkImport.html#a59935a2b04f7a428404d152405f91081',1,'DecklinkImport::next_frame()'],['../classImageImport.html#acbf182e5ff9baf205a0e1aceadab654d',1,'ImageImport::next_frame()'],['../classPictureImport.html#a540c467a453d7488c078278bcac05699',1,'PictureImport::next_frame()']]],
+  ['next_5fframe',['next_frame',['../classDeckLinkImport.html#a614aaa363af837d46346236497c3f324',1,'DeckLinkImport::next_frame()'],['../classImageImport.html#acbf182e5ff9baf205a0e1aceadab654d',1,'ImageImport::next_frame()'],['../classPictureImport.html#a540c467a453d7488c078278bcac05699',1,'PictureImport::next_frame()']]],
   ['next_5fmetadata',['next_metadata',['../classMetadataInput.html#ae60d243a30af35acdb4ebc998a8a5ef5',1,'MetadataInput']]]
 ];

diff --git a/html/search/functions_8.js b/html/search/functions_8.js
@@ -1,5 +1,5 @@
 var searchData=
 [
-  ['next_5fframe',['next_frame',['../classDecklinkImport.html#a59935a2b04f7a428404d152405f91081',1,'DecklinkImport::next_frame()'],['../classImageImport.html#acbf182e5ff9baf205a0e1aceadab654d',1,'ImageImport::next_frame()'],['../classPictureImport.html#a540c467a453d7488c078278bcac05699',1,'PictureImport::next_frame()']]],
+  ['next_5fframe',['next_frame',['../classDeckLinkImport.html#a614aaa363af837d46346236497c3f324',1,'DeckLinkImport::next_frame()'],['../classImageImport.html#acbf182e5ff9baf205a0e1aceadab654d',1,'ImageImport::next_frame()'],['../classPictureImport.html#a540c467a453d7488c078278bcac05699',1,'PictureImport::next_frame()']]],
   ['next_5fmetadata',['next_metadata',['../classMetadataInput.html#ae60d243a30af35acdb4ebc998a8a5ef5',1,'MetadataInput']]]
 ];
